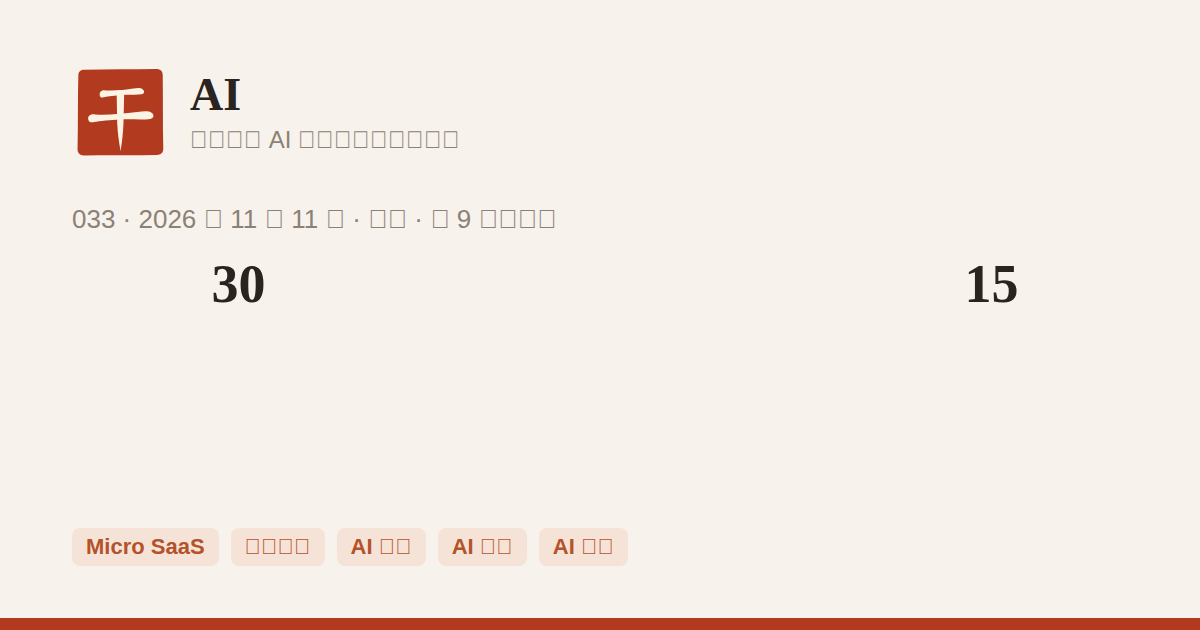
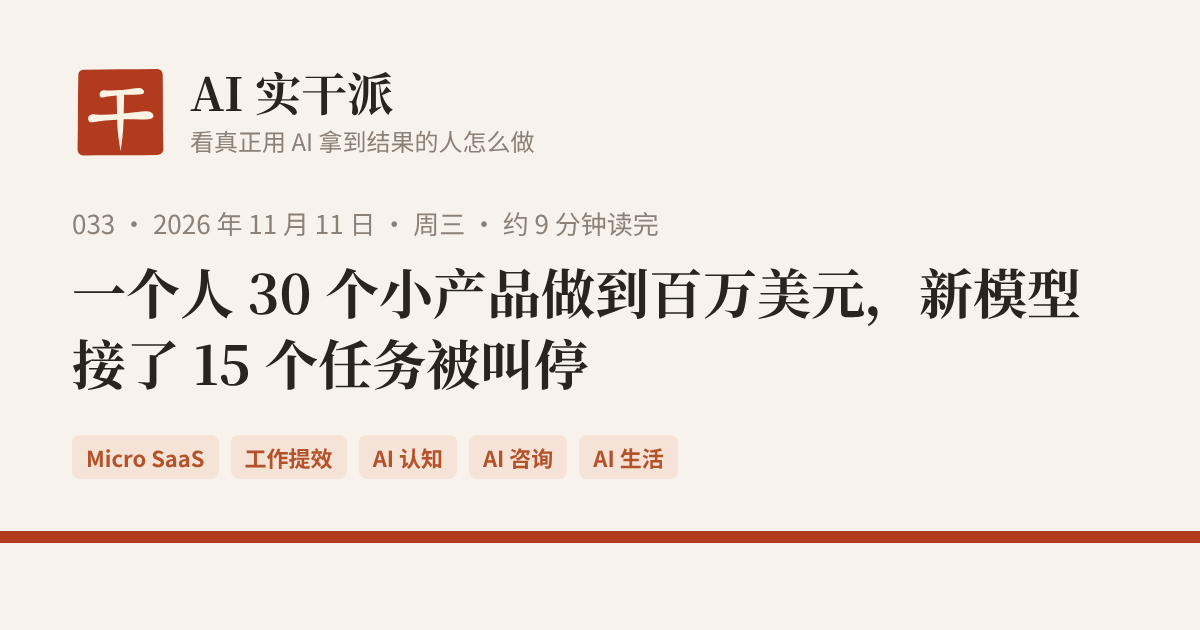
AI 实干派: fetch CJK fonts from GitHub instead of apt; re-render 11-11 card [skip-newsletter]
Claude-Session: https://claude.ai/code/session_01S4WxwLkZDFYHqWShQCnmPt

diff --git a/ai-practice/scripts/og-images.js b/ai-practice/scripts/og-images.js
@@ -9,7 +9,7 @@
 //
 // Chrome: $CHROME_BIN, else the macOS app path, else `google-chrome` (present
 // on GitHub's Ubuntu runners). Chinese text needs a CJK font; the workflow
-// installs fonts-noto-cjk. If Chrome is missing, this exits 0 with a warning
+// downloads Noto Sans/Serif SC from the noto-cjk repo. If Chrome is missing, this exits 0 with a warning
 // and pages fall back to og/default.png (or no image when that is missing).
 //
 // Usage: node og-images.js [--force]   (build-index.js --og calls this too)
